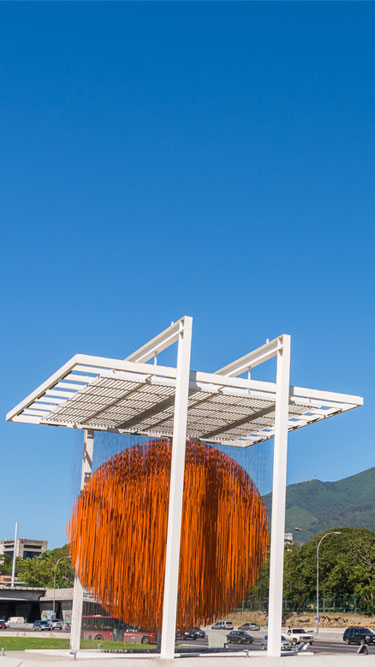
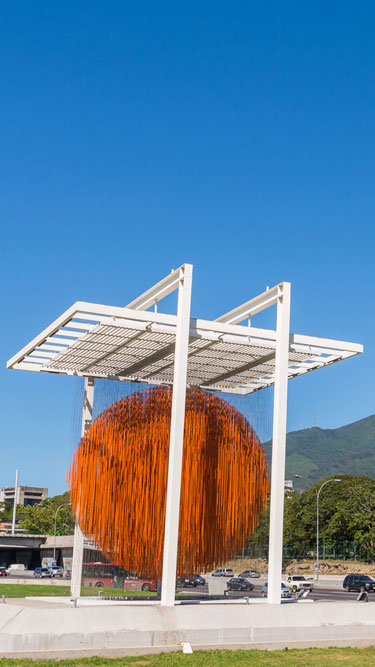
Segundos ajustes de estilos
Segundos ajustes de estilos.
Ajustes de iconos en Nosotros.
Sustitucion de background-image para Inicio (desktop) y Nosotros (movil y tablet).

diff --git a/src/assets/css/styles.less b/src/assets/css/styles.less
@@ -1089,7 +1089,7 @@ footer {
   background: -moz-linear-gradient(
     top,
     rgba(0, 0, 0, 0) 0%,
-    rgba(0, 0, 0, 0.8) 100%
+    rgba(0, 0, 0, 0.8) 85%
   );
   background: -webkit-gradient(
     left top,
@@ -1100,22 +1100,22 @@ footer {
   background: -webkit-linear-gradient(
     top,
     rgba(0, 0, 0, 0) 0%,
-    rgba(0, 0, 0, 0.8) 100%
+    rgba(0, 0, 0, 0.8) 85%
   );
   background: -o-linear-gradient(
     top,
     rgba(0, 0, 0, 0) 0%,
-    rgba(0, 0, 0, 0.8) 100%
+    rgba(0, 0, 0, 0.8) 85%
   );
   background: -ms-linear-gradient(
     top,
     rgba(0, 0, 0, 0) 0%,
-    rgba(0, 0, 0, 0.8) 100%
+    rgba(0, 0, 0, 0.8) 85%
   );
   background: linear-gradient(
     to bottom,
     rgba(0, 0, 0, 0) 0%,
-    rgba(0, 0, 0, 0.8) 100%
+    rgba(0, 0, 0, 0.8) 85%
   );
   filter: progid:DXImageTransform.Microsoft.gradient( startColorstr='#000000', endColorstr='#000000', GradientType=0 );
   .w-full();
@@ -1188,8 +1188,6 @@ footer {
       display: flex;
       flex-wrap: wrap;
       .gris-claro-bg();
-      img {
-      }
       h2 {
         font-weight: 400;
         .naranja();
@@ -1301,8 +1299,8 @@ footer {
     .flex();
     .vallas__ficha {
       .gris-claro-bg();
-      > div {
-        .blanco-bg();
+      .mapa {
+        border: #525052 1px solid;
       }
       h2 {
         font-weight: 400;
@@ -1324,9 +1322,9 @@ footer {
   position: absolute;
   top: 50%;
   left: 50%;
-  width: 48px;
-  height: 48px;
-  background-image: url(../images/favicon.png);
+  width: 30px;
+  height: 30px;
+  background-image: url(../images/marcador.png);
   background-size: contain;
   background-position: center;
   user-select: none;
@@ -1415,7 +1413,7 @@ footer {
       height: 14vh;
       background-size: 28vw;
       a {
-        font-size: 0.77rem;
+        font-size: 0.78rem;
         margin: 0 0.8vw;
         padding: 1.5vh 0.5vh 0;
       }
@@ -1423,7 +1421,7 @@ footer {
   }
   main > div {
     .contenedor {
-      padding: 13vh 6vw 20vh;
+      padding: 15vh 6vw 20vh;
     }
   }
   footer {
@@ -1439,7 +1437,7 @@ footer {
             padding: 2.5vw;
             margin: 0 2vw;
             svg {
-              width: 0.55em !important;
+              width: 0.45em !important;
             }
           }
         }
@@ -1495,7 +1493,8 @@ footer {
         }
         padding: 2.5vh;
         img {
-          width: 18%;
+          width: 15vw;
+          height: 15vw;
         }
         h2 {
           font-size: 1.3rem;
@@ -1613,7 +1612,7 @@ footer {
       .w-full();
     }
     .contacto__info {
-      padding-bottom: 12%;
+      padding-bottom: 13%;
       ul {
         .w-full();
         .flex();
@@ -1700,7 +1699,7 @@ footer {
         font-size: 0.78rem;
         img {
           width: 17vh;
-          margin-bottom: -0.35em;
+          margin-bottom: -0.3em;
         }
       }
     }
@@ -1744,7 +1743,8 @@ footer {
         }
         padding: 4vh;
         img {
-          width: 12%;
+          width: 10vw;
+          height: 10vw;
         }
         h2 {
           font-size: 1.3rem;
@@ -1995,9 +1995,11 @@ footer {
           margin-top: 3.2%;
         }
         img {
-          width: 11%;
+          width: 10vw;
+          height: 10vw;
         }
         h2 {
+          padding-top: 1vh;
           font-size: 1.55rem;
         }
         p {
@@ -2033,14 +2035,14 @@ footer {
           width: 57%;
           padding-left: 2vw;
           h2 {
-            font-size: 1.6rem;
+            font-size: 1.5rem;
             padding: 0 0 0.5vh 0;
           }
           p {
             font-size: 1rem;
           }
           button {
-            font-size: 1.2rem;
+            font-size: 1rem;
           }
         }
 
@@ -2091,6 +2093,7 @@ footer {
           height: 15vh;
         }
         h2 {
+          padding-top: 1vh;
           font-size: 1.42rem;
         }
         p {
@@ -2119,7 +2122,7 @@ footer {
       ul {
         li {
           .w-half();
-          padding: 5vh 0 6vh 0;
+          padding: 7vh 0 8vh 0;
           svg {
             width: 8vw !important;
             height: 8vw;
@@ -2234,7 +2237,8 @@ footer {
         }
         padding: 2vh;
         img {
-          width: 25%;
+          width: 6vw;
+          height: 6vw;
         }
         h2 {
           font-size: 1.35rem;
@@ -2329,7 +2333,7 @@ footer {
           font-size: 1.25rem;
         }
         p {
-          font-size: 0.95rem;
+          font-size: 0.97rem;
           padding: 0.5vh 0;
         }
         a {
@@ -2431,6 +2435,7 @@ footer {
   ========================================================================== */
   .inicio {
     background-image: url(../images/ini-desk-bg.jpg);
+    background-position: bottom center;
     .inicio__logo {
       height: 26vh;
       width: 30vw;
@@ -2446,6 +2451,7 @@ footer {
   ========================================================================== */
   .nosotros {
     background-image: url(../images/nos-desk-bg.jpg);
+    background-position: bottom center;
     ul {
       .nosotros__ficha {
         &:nth-child(2n) {
@@ -2454,7 +2460,10 @@ footer {
         &:nth-child(3n) {
           margin-left: 1.633333333%;
         }
-
+        img {
+          width: 4.5vw;
+          height: 4.5vw;
+        }
         h2 {
           font-size: 1.5rem;
         }
@@ -2474,6 +2483,7 @@ footer {
   ========================================================================== */
   .productos {
     background-image: url(../images/pro-desk-bg.jpg);
+    background-position: bottom center;
     ul {
       .flex();
       li {
@@ -2519,6 +2529,7 @@ footer {
   ========================================================================== */
   .vallas {
     background-image: url(../images/vall-desk-bg.jpg);
+    background-position: bottom center;
     ul {
       .flex();
       .vallas__ficha {
@@ -2547,6 +2558,7 @@ footer {
   ========================================================================== */
   .contacto {
     background-image: url(../images/con-desk-bg.jpg);
+    background-position: bottom center;
     .contacto__info {
       min-height: 50vh;
       ul {
@@ -2595,7 +2607,7 @@ footer {
       p {
         img {
           width: 9vh;
-          margin-bottom: -0.4em;
+          margin-bottom: -0.35em;
         }
       }
     }
@@ -2621,35 +2633,10 @@ footer {
       }
     }
   }
-
-
-  /* Contacto
-  ========================================================================== */
-  .contacto {
-    .contacto__info {
-      ul {
-        li {
-          padding-top: 14%;
-        }
-      }
-    }
-  }
 }
 
 /*-------------------------------------------- Desktop responsive 1440--------------------------------------------*/
 @media only screen and (min-device-width: 1600px) and (-webkit-min-device-pixel-ratio: 1) {
-  /* Nosotros
-  ========================================================================== */
-  .nosotros {
-    ul {
-      .nosotros__ficha {
-        img {
-          width: 20%;
-        }
-      }
-    }
-  }
-
   /* Productos
   ========================================================================== */
   .productos {
@@ -2671,7 +2658,7 @@ footer {
     .contacto__info {
       ul {
         li {
-          padding-top: 9%;
+          padding-top: 8%;
         }
       }
     }
@@ -2699,10 +2686,10 @@ footer {
     ul {
       li {
         .gatsby-image-wrapper {
-          width: 22%;
+          width: 18%;
         }
         .productos__ficha {
-          width: 78%;
+          width: 82%;
 
           h2 {
             font-size: 1.35rem;
@@ -2729,18 +2716,6 @@ footer {
         }
         a {
           font-size: 0.9rem;
-        }
-      }
-    }
-  }
-
-    /* Contacto
-  ========================================================================== */
-  .contacto {
-    .contacto__info {
-      ul {
-        li {
-          padding-top: 12%;
         }
       }
     }
